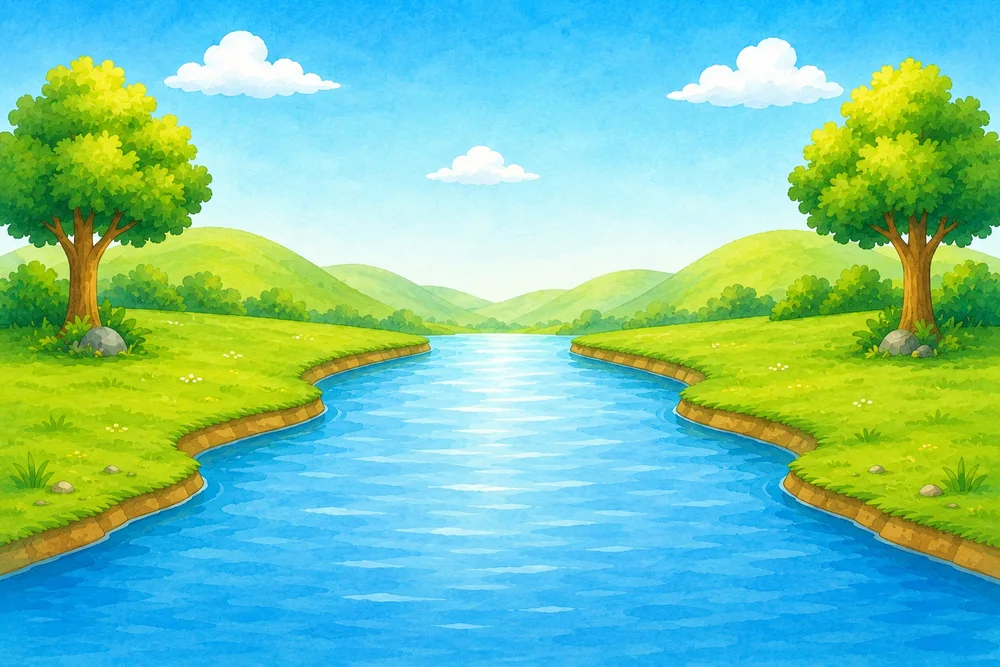
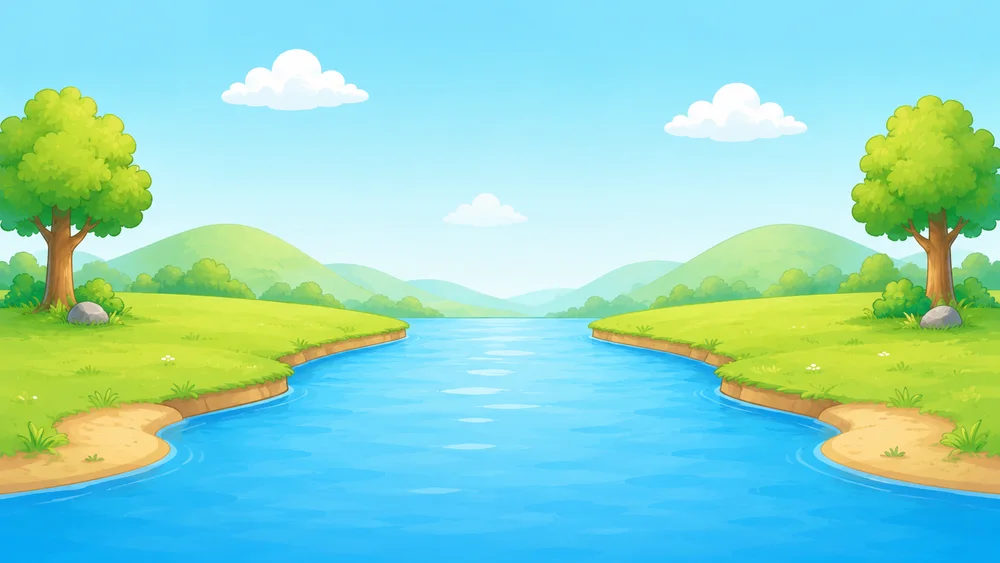
feat: 강 배경 v2 교체 + 출발·도착 일직선 정렬 + 캐릭터 확대 (사용자 확정)
- 강 배경을 v2 원화로 교체 (1657×944 → webp 38KB, v1은 art-src 보존)
- 출발 대기 자리를 도착 텐트와 같은 높이·좌우 대칭으로 (xi 15→10.5, iB 30→22)
- 도착 만세 자리(xa/aB) 신설 — 수영 라인(bottom 6)에서 둑 위(21)로 올라와
  텐트 옆에서 만세. 출발↔도착이 일직선 (사용자 확정)
- 캐릭터 54→64px, 도착 지점 이모지 34→38px — 배경 스케일에 맞춤 (사용자 확정)

검증(실제 앱): 출발(왼쪽 둑, 텐트 라인)·도착(오른쪽 둑 텐트 옆) 스크린샷 확인.
vite build 통과.

Claude-Session: https://claude.ai/code/session_018maNuYqDfFyRSe9uKpZhPR

diff --git a/src/components/ExpeditionTrack.jsx b/src/components/ExpeditionTrack.jsx
@@ -67,9 +67,10 @@ export default function ExpeditionTrack({ day, done = 0, total = 0, charImg = ""
   const celebrating = arrived && !moving;
   const poseKey = celebrating ? "success" : idle ? "idle" : exp.pose;
   const charB = CHAR_IMG[poseKey]?.[gender] || CHAR_IMG.walk?.[gender] || null;
-  /* 출발 전엔 씬별 대기 위치(xi/iB — 강은 둑 위)가 있으면 거기 선다 */
-  const xPos = idle ? (sc.xi ?? x0) : x;
-  const bottomPos = idle ? (sc.iB ?? charBottom) : charBottom;
+  /* 출발 전엔 대기 위치(xi/iB — 강은 둑 위), 도착해 만세할 땐 도착 위치(xa/aB —
+     강은 물에서 둑으로 올라와 텐트 옆)로. 없으면 이동 경로 값 그대로. */
+  const xPos = idle ? (sc.xi ?? x0) : celebrating ? (sc.xa ?? x1) : x;
+  const bottomPos = idle ? (sc.iB ?? charBottom) : celebrating ? (sc.aB ?? charBottom) : charBottom;
 
   return (
     <div style={{ position: "relative", overflow: "hidden", borderRadius: 22, marginBottom: 14,
@@ -104,7 +105,7 @@ export default function ExpeditionTrack({ day, done = 0, total = 0, charImg = ""
                "그냥 도착하면 점프하고 탐험 성공!") ── */}
         <div style={{ position: "absolute", left: "90%", bottom: `${goalBottom}%`,
           transform: "translateX(-50%)", textAlign: "center", pointerEvents: "none" }}>
-          <span style={{ fontSize: 34, lineHeight: 1, display: "block",
+          <span style={{ fontSize: 38, lineHeight: 1, display: "block",
             filter: "drop-shadow(0 2px 3px rgba(0,0,0,0.2))",
             animation: "expBob 2.6s ease-in-out infinite" }}>
             {exp.goal}
@@ -129,7 +130,7 @@ export default function ExpeditionTrack({ day, done = 0, total = 0, charImg = ""
               </span>
             )}
             <img src={charB || charImg} alt="" draggable={false}
-              style={{ position: "relative", zIndex: 1, height: 54, width: "auto", display: "block",
+              style={{ position: "relative", zIndex: 1, height: 64, width: "auto", display: "block",
                 margin: "0 auto", marginBottom: mount && !celebrating ? 14 : 0,
                 filter: "drop-shadow(0 0 2px rgba(255,251,240,0.9)) drop-shadow(0 3px 4px rgba(0,0,0,0.3))" }} />
             {/* 아이템: 걷기 캐릭터에 이모지 배지만 추가 (별도 캐릭터 안 만듦) */}

diff --git a/src/data/expeditions.js b/src/data/expeditions.js
@@ -64,9 +64,12 @@ export const EXPEDITIONS = {
     scene:{ sky:["#BFE3F2","#E8F5EC"], ground:["#7FC4DE","#5FA8CC"], groundH:34,
       /* 배경 원화 전용 위치 보정: 양쪽 잔디 사이 물길이 중앙이라
          charB/goalB(bottom%)·x0/x1(이동 구간)을 그림에 맞춘다 */
-      charB:6, goalB:22, x0:9, x1:84,
-      /* 출발 전(미션 0개)엔 왼쪽 둑 잔디 위에 서 있는다 — 물 위에 서 있으면 이상해서 */
-      xi:15, iB:30,
+      charB:6, goalB:22, x0:9, x1:86.5,
+      /* 출발 전(미션 0개) 대기 자리 — 도착 텐트(x90·bottom22)와 같은 높이·좌우 대칭
+         (사용자 확정: 출발지는 도착이랑 일직선) */
+      xi:10.5, iB:22,
+      /* 도착 후 만세 자리 — 물에서 둑으로 올라와 텐트 옆, 출발지와 일직선 (사용자 확정) */
+      xa:83, aB:21,
       deco:[[6,30,"🌳",26],[13,66,"🌿",15],[93,28,"🌲",24],[87,66,"🪨",14],[8,84,"💧",11],[94,84,"🐟",12]] } },
   "화": { key:"mountain", title:"산 정상에 오르자!", emoji:"🏔",
     pose:"walk", item:"rope", goal:"🚩",

diff --git a/art-src/README.md b/art-src/README.md
@@ -161,3 +161,4 @@ halo가 외곽선을 흐려서 생긴 착시였다.
 | expedition/char/common-{walk,swim,success}-src.png | 탐험 씬 캐릭터 포즈 3종 (남아 원화 — 당분간 남녀 공용, halo 보정 후 탑재) | expedition/char/common-*.webp |
 | expedition/bg/bg-river-src.png | 탐험 씬 배경 1호 — 강 (월요일, 1536×1024 가로형·중앙 비움) | expedition/bg-river.webp |
 | expedition/char/common-idle-src.png | 탐험 씬 기본 서있기 포즈 (미션 0개일 때 출발지 대기 — halo 보정 후 탑재) | expedition/char/common-idle.webp |
+| expedition/bg/bg-river-v2-src.png | 강 배경 v2 (1657×944 — v1 교체, 현행) | expedition/bg-river.webp |
